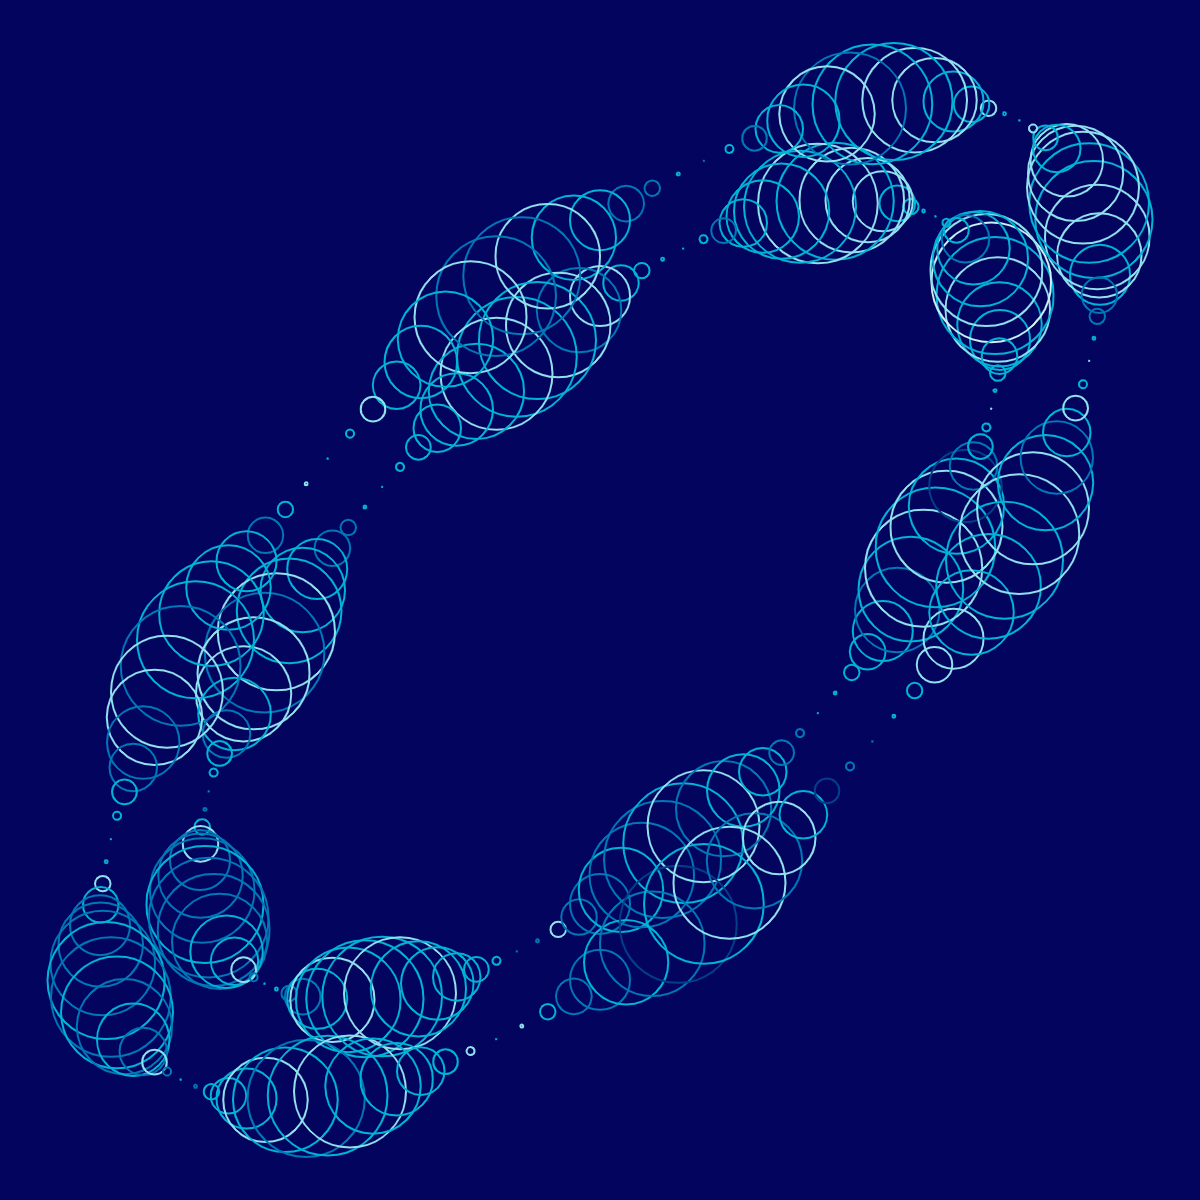
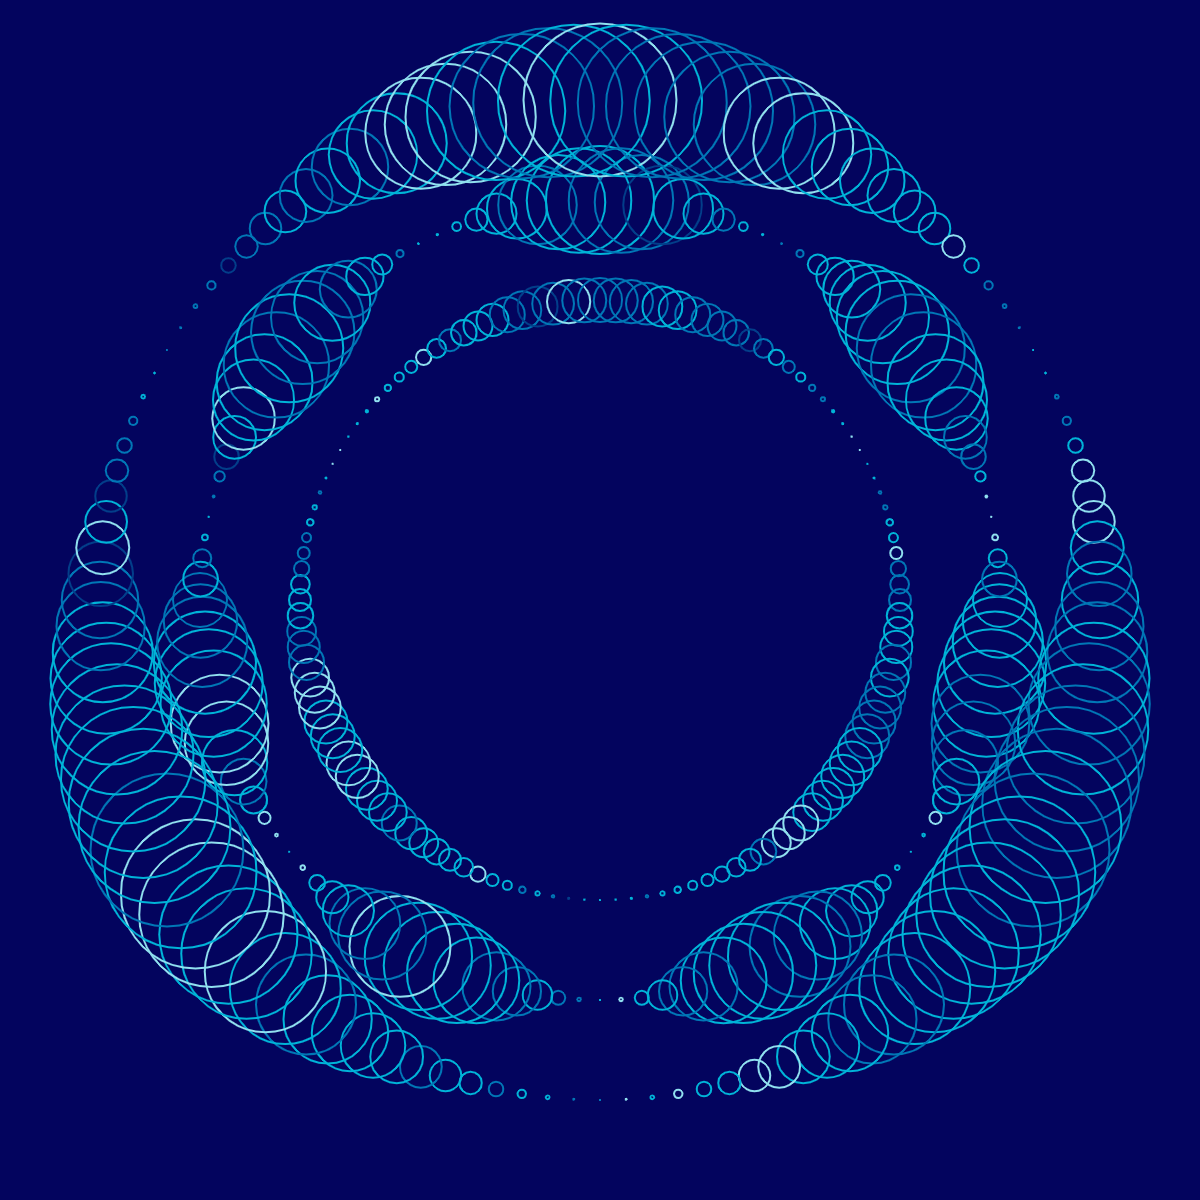
update works

Changed region(s): [[0.0308, 0.0, 0.9558, 0.9867], [0.6475, 0.3083, 0.6783, 0.3392], [0.2775, 0.3392, 0.3083, 0.37]]

diff --git a/works/20230116/js/sketch.js b/works/20230116/js/sketch.js
@@ -4,18 +4,21 @@ let colors = ["#023e8a","#0077b6","#00b4d8","#90e0ef", "#CAF0F8"];
 function setup() {
     let canvas = createCanvas(600, 600);
 
+    angleMode(DEGREES)
+
     background('#03045E');
     ni1 = random(0.1, 0.5)
     nj1 = random(0.1, 0.5)
 
-    for (let j = 4; j < 6; j++){
+    for (let j = 3; j < 6; j++){
         let radiusFirst = width/12*j;
+        let radiusBase = random(10, 40);
+        let puffNum = int(random(3, 8))
         for(let i = 0; i < 360; i +=3){
-            let angle = i / 180 * PI;
-            let radiusBase = 30;
-            let radiusSecond = radiusBase * sin(angle*8) + radiusBase;
+            let angle = i;
+            let radiusSecond = radiusBase * sin(angle*puffNum) + radiusBase;
             let x = radiusFirst * cos(angle) + width/2;
-            let y = radiusFirst * sin(angle-15) + height/2;
+            let y = radiusFirst * sin(angle) + height/2;
     
             noFill();
             let n = floor(map(noise(i*ni1, j*nj1), 0, 1, 0, colors.length));
